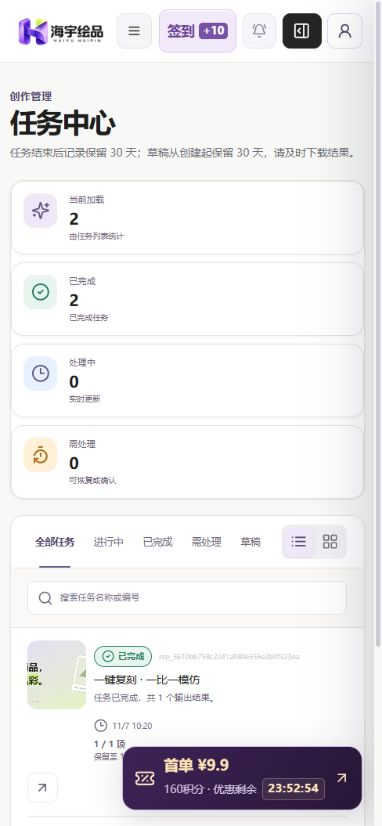
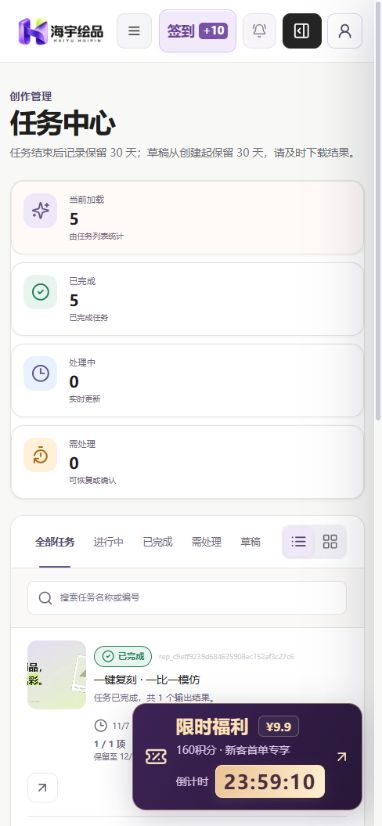
Unify floating welfare label, emphasize countdown and match numeral alignment

diff --git a/components/newcomer-offer-controller.module.css b/components/newcomer-offer-controller.module.css
@@ -26,3 +26,13 @@
 @media(max-width:340px){.dialog{padding-inline:16px}.coupon{--credit-inset:8px;padding-inline:14px;gap:7px 10px}.priceValue>span{font-size:20px}.priceValue>strong{font-size:52px}.creditValue>strong{font-size:36px}.creditValue>span{font-size:17px}}
 
 .top{text-align:center}.top h2{margin:22px 0 12px;font-size:44px;line-height:1.2;font-weight:750;letter-spacing:3px;color:#f5ddbc}.top p{margin-bottom:24px}.sparkle{right:4px;top:77px;width:29px;height:29px;opacity:.75}@media(max-width:480px){.top h2{font-size:40px;margin-top:22px;letter-spacing:2px}.top p{font-size:12px;margin-bottom:22px}.sparkle{right:-3px;top:77px;width:23px;height:23px}}@media(max-width:340px){.top h2{font-size:36px}.sparkle{right:0;width:20px;height:20px}}
+
+/* Equal numeral metrics align the tops, baselines and visual centers. */
+.coupon{grid-template-columns:minmax(0,.9fr) minmax(0,1.2fr)}
+.priceValue>strong,.creditValue>strong{font-size:70px;line-height:1;letter-spacing:-2px}
+.floating{gap:12px;padding:14px 16px;border-color:#e5c39280;box-shadow:0 8px 32px #2713373d}
+.floating>.floatingContent{display:grid;gap:5px}.floating .floatingHeading{display:flex;align-items:center;gap:10px}.floatingHeading>strong{font-size:19px;letter-spacing:.6px}.floatingHeading>b{padding:3px 7px;border:1px solid #f6d7a84d;border-radius:5px;background:#fff0d20d;color:#ffe2b4;font-size:12px;line-height:1.2}.floating .floatingClock{display:flex;align-items:center;gap:7px;margin-top:2px}.floatingClock>small{font-size:11px;color:#dac8e6}.floating .floatingClock time{margin:0;padding:6px 9px;border:1px solid #ffe9bd;border-radius:7px;background:linear-gradient(110deg,#eac397,#fff0d2);color:#4b2e3f;font-size:21px;font-weight:800;line-height:1;letter-spacing:1.1px;font-variant-numeric:tabular-nums;box-shadow:0 3px 12px #e5bc921c}
+@media(max-width:640px){.floating{gap:9px;padding:12px}.floatingHeading>strong{font-size:18px}.floating .floatingClock time{font-size:20px;padding:6px 8px}}
+@media(max-width:480px){.priceValue>strong,.creditValue>strong{font-size:48px;letter-spacing:-1px}}
+@media(max-width:374px){.priceValue>strong,.creditValue>strong{font-size:44px}}
+@media(max-width:340px){.priceValue>strong,.creditValue>strong{font-size:40px}}

diff --git a/components/newcomer-offer-controller.tsx b/components/newcomer-offer-controller.tsx
@@ -94,7 +94,7 @@ export function NewcomerOfferController() {
   const floatingTime = query.data ? newcomerCountdown(query.data.window_ends_at, query.data.server_now, tick - query.dataUpdatedAt) : null;
   return <>
     {visible && <NewcomerOfferModal offer={offer.data} receivedAt={offer.receivedAt} now={tick || offer.receivedAt} onClose={() => setOffer(null)}/>}
-    {floating && query.data && <button type="button" className={styles.floating} aria-label="查看新人首单9.9元优惠" onClick={() => {
+    {floating && query.data && <button type="button" className={styles.floating} aria-label="查看限时福利，首单9.9元" onClick={() => {
       if (!workspace?.id || inFlight.current) return;
       const id = workspace.id;
       inFlight.current = true;
@@ -102,7 +102,11 @@ export function NewcomerOfferController() {
         cache.setQueryData(newcomerOfferKey(id), {...result, should_show: false, reminded_today: result.should_show || result.reminded_today});
         if (result.should_show) setOffer({data: result, receivedAt: Date.now(), workspaceId: id});
       }).catch(() => router.push("/account?offer=newcomer#membership")).finally(() => { inFlight.current = false; });
-    }}><TicketPercent size={21}/><span><strong>首单 ¥{query.data.amount_fen / 100}</strong><small>{query.data.credits}积分 · 优惠剩余 <time>{floatingTime?.parts.join(":")}</time></small></span><ArrowUpRight size={17}/></button>}
+    }}><TicketPercent size={23}/><span className={styles.floatingContent}>
+      <span className={styles.floatingHeading}><strong>限时福利</strong><b>¥{query.data.amount_fen / 100}</b></span>
+      <small>{query.data.credits}积分 · 新客首单专享</small>
+      <span className={styles.floatingClock}><small>倒计时</small><time aria-label={`优惠剩余${floatingTime?.parts.join(":")}`}>{floatingTime?.parts.join(":")}</time></span>
+    </span><ArrowUpRight size={17}/></button>}
   </>;
 }
 
